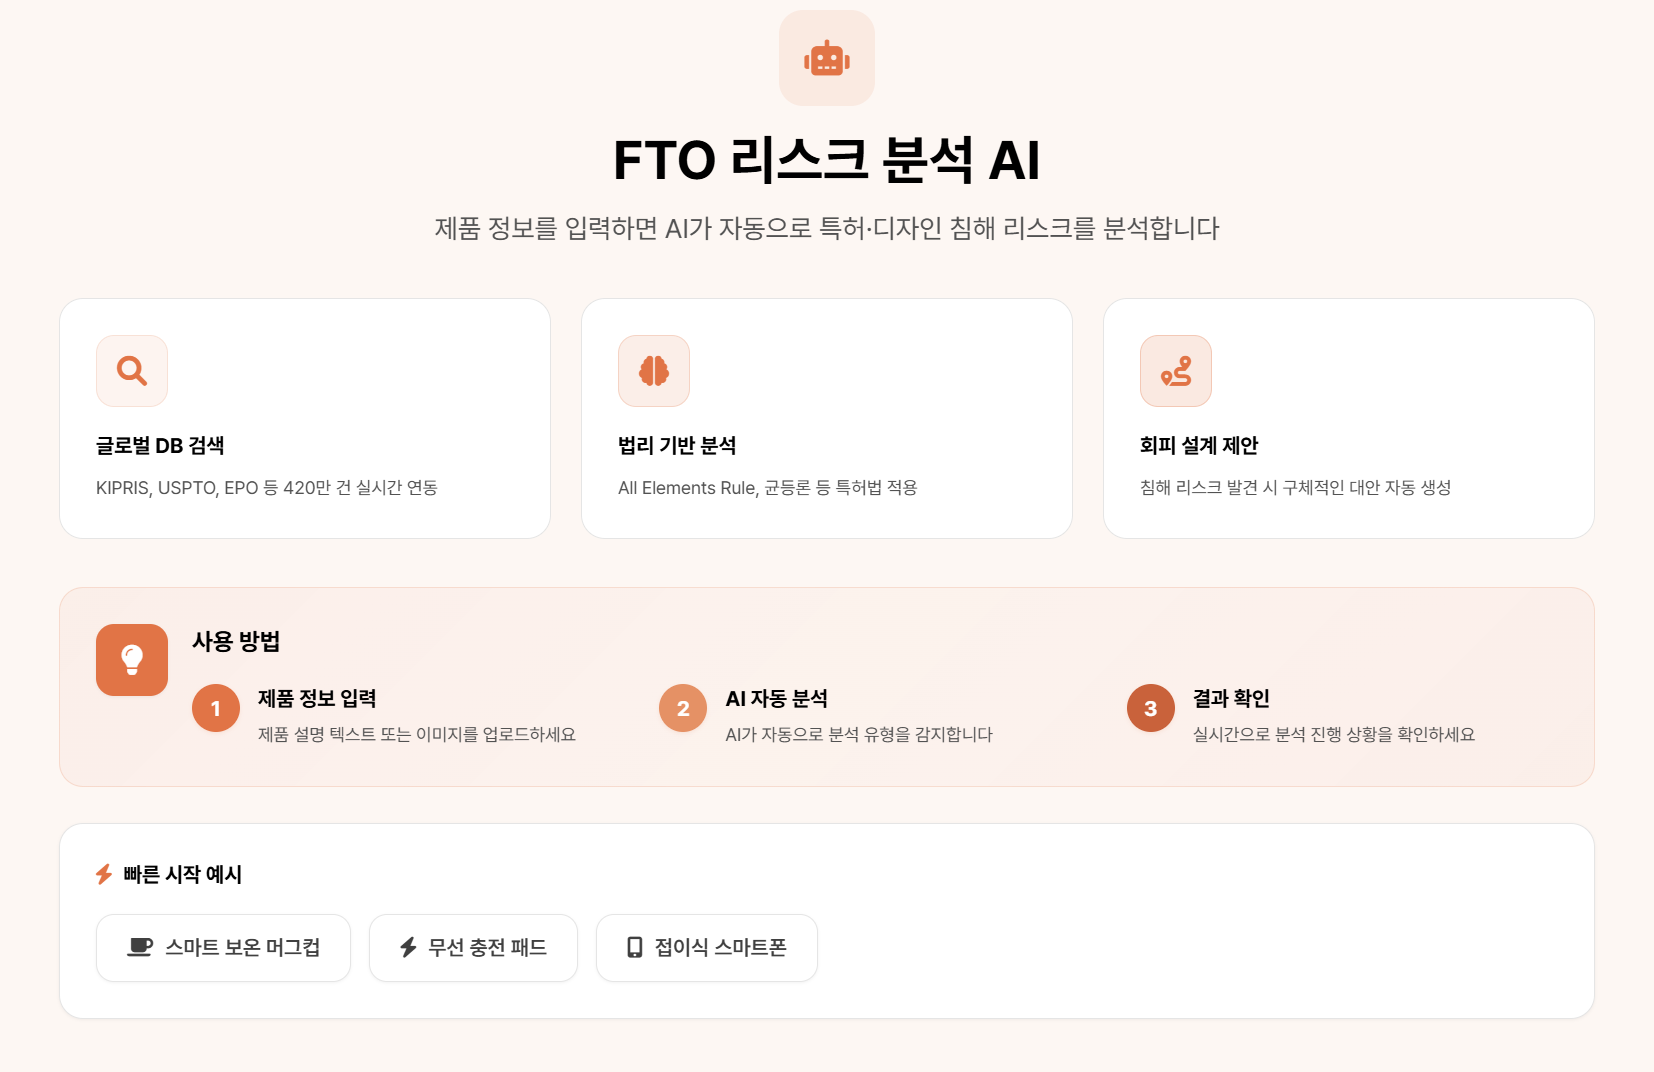
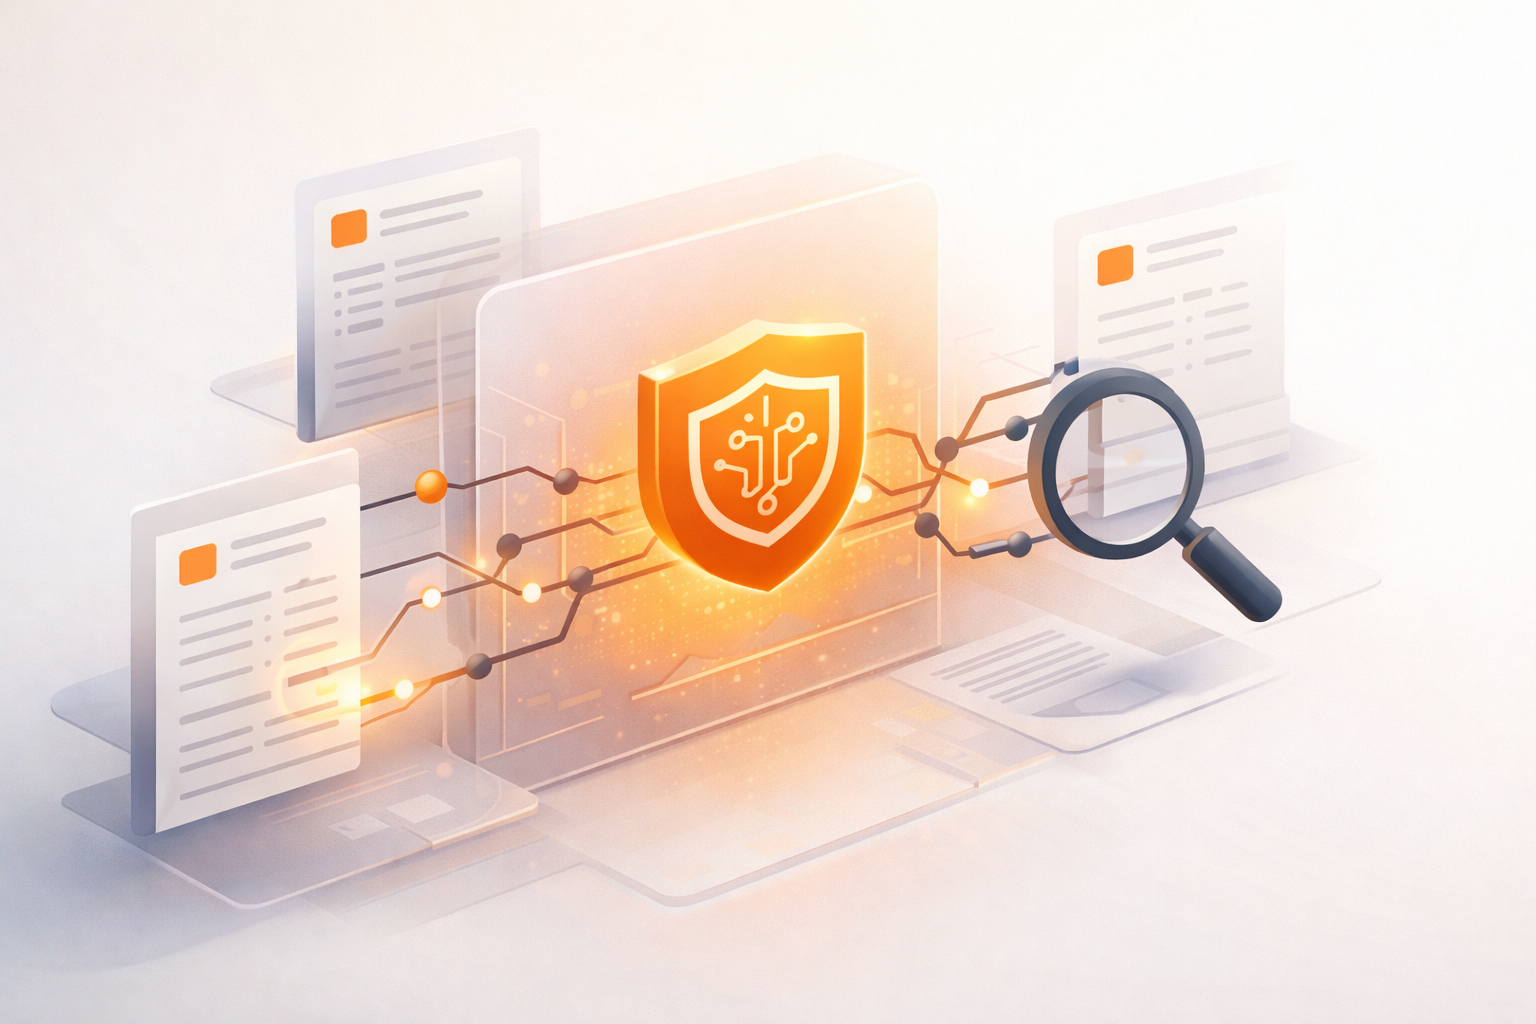
feat(front): PDF 다운로드 기능 추가 및 인쇄 스타일 개선

diff --git a/FRONTEND/results.html b/FRONTEND/results.html
@@ -8,7 +8,9 @@
     <script src="https://cdn.tailwindcss.com"></script>
     <link rel="stylesheet" href="https://cdnjs.cloudflare.com/ajax/libs/font-awesome/6.0.0/css/all.min.css">
     <link rel="stylesheet" href="toast.css">
-    
+    <script src="https://cdnjs.cloudflare.com/ajax/libs/html2canvas/1.4.1/html2canvas.min.js"></script>
+    <script src="https://cdnjs.cloudflare.com/ajax/libs/jspdf/2.5.1/jspdf.umd.min.js"></script>
+
     <style>
         @import url('https://cdn.jsdelivr.net/gh/orioncactus/pretendard@v1.3.9/dist/web/static/pretendard.min.css');
         
@@ -243,6 +245,74 @@
         .reveal:nth-child(6) { animation-delay: 0.5s; }
 
         .break-keep { word-break: keep-all; }
+
+        /* ── Print / PDF ── */
+        @media print {
+            @page {
+                size: A4 portrait;
+                margin: 6mm 8mm;
+            }
+
+            body {
+                background: white !important;
+                -webkit-print-color-adjust: exact;
+                print-color-adjust: exact;
+            }
+
+            /* 헤더·푸터·로딩·버튼 숨김 */
+            #app-header,
+            #app-footer,
+            #loadingOverlay,
+            .no-print {
+                display: none !important;
+            }
+
+            /* 결과 영역 표시 */
+            #resultsMain {
+                display: block !important;
+                padding: 0 !important;
+            }
+
+            /* 애니메이션 제거 */
+            .reveal {
+                opacity: 1 !important;
+                transform: none !important;
+                animation: none !important;
+            }
+
+            /* 전체 보고서 축소 → A4 1장 맞춤 */
+            #report-content {
+                zoom: 0.68;
+                max-width: none !important;
+                padding: 0 !important;
+            }
+
+            /* 카드 패딩 축소 */
+            .section-card {
+                padding: 14px !important;
+                margin-bottom: 6px !important;
+                box-shadow: none !important;
+                border-radius: 10px !important;
+            }
+            .verdict-banner {
+                padding: 14px 18px !important;
+                margin-bottom: 8px !important;
+            }
+            .stat-card {
+                padding: 10px !important;
+            }
+            .section-sub {
+                margin-bottom: 8px !important;
+            }
+
+            /* 페이지 나눔 방지 */
+            .section-card,
+            .verdict-banner,
+            .patent-row {
+                page-break-inside: avoid;
+                break-inside: avoid;
+            }
+        }
     </style>
 </head>
 
@@ -293,10 +363,10 @@
          RESULTS MAIN
     ══════════════════════════════════════ -->
     <main id="resultsMain" class="pt-24 pb-24" style="display:none;">
-        <div class="max-w-5xl mx-auto px-6">
+        <div class="max-w-5xl mx-auto px-6" id="report-content">
 
             <!-- Breadcrumb -->
-            <div class="flex items-center gap-2 text-sm text-neutral-500 mb-8 reveal">
+            <div class="flex items-center gap-2 text-sm text-neutral-500 mb-8 reveal no-print">
                 <a href="index.html" class="hover:text-primary transition-colors">홈</a>
                 <span class="text-neutral-300">/</span>
                 <a href="analysis.html" class="hover:text-primary transition-colors">분석 입력</a>
@@ -412,7 +482,7 @@
             </div>
 
             <!-- ── 7. Action Buttons ── -->
-            <div class="flex flex-wrap gap-3 justify-center mt-8 reveal">
+            <div class="flex flex-wrap gap-3 justify-center mt-8 reveal no-print">
                 <button
                     onclick="window.location.href='graph-rag.html'"
                     class="px-6 py-3 bg-white hover:bg-neutral-50 border border-neutral-200 hover:border-primary rounded-xl text-neutral-700 hover:text-primary font-semibold transition-all shadow-sm hover:shadow-md inline-flex items-center gap-2 text-sm"
@@ -623,12 +693,53 @@
         `).join('');
     }
 
-    function downloadPDF() {
-        if (typeof Toast !== 'undefined') {
-            Toast.info('PDF 생성 중...');
-            setTimeout(() => Toast.success('PDF 다운로드 완료!'), 1500);
-        } else {
-            alert('PDF 다운로드 기능은 실제 서비스에서 이용 가능합니다.');
+    async function downloadPDF() {
+        if (typeof Toast !== 'undefined') Toast.info('PDF 생성 중...');
+
+        // 캡처 전 no-print 요소 숨김
+        const noPrintEls = document.querySelectorAll('.no-print');
+        noPrintEls.forEach(el => { el._prevDisplay = el.style.display; el.style.display = 'none'; });
+
+        const content = document.getElementById('report-content');
+
+        try {
+            const canvas = await html2canvas(content, {
+                scale: 2,
+                useCORS: true,
+                logging: false,
+                backgroundColor: '#fafafa',
+            });
+
+            const imgData = canvas.toDataURL('image/jpeg', 0.95);
+            const { jsPDF } = window.jspdf;
+            const pdf = new jsPDF({ orientation: 'portrait', unit: 'mm', format: 'a4' });
+
+            const pageW = pdf.internal.pageSize.getWidth();   // 210mm
+            const pageH = pdf.internal.pageSize.getHeight();  // 297mm
+            const margin = 8;
+            const availW = pageW - margin * 2;
+            const availH = pageH - margin * 2;
+
+            const naturalH = (canvas.height / canvas.width) * availW;
+
+            let x = margin, y = margin, w = availW, h = naturalH;
+            if (naturalH > availH) {
+                // 콘텐츠가 1장을 초과할 경우 → 비율 유지하며 1장에 맞춤
+                const fitScale = availH / naturalH;
+                w = availW * fitScale;
+                h = availH;
+                x = margin + (availW - w) / 2;
+            }
+
+            pdf.addImage(imgData, 'JPEG', x, y, w, h);
+            pdf.save('FTO_분석결과.pdf');
+            if (typeof Toast !== 'undefined') Toast.success('PDF 다운로드 완료!');
+        } catch (err) {
+            console.error(err);
+            if (typeof Toast !== 'undefined') Toast.error('PDF 생성에 실패했습니다.');
+        } finally {
+            // no-print 요소 복원
+            noPrintEls.forEach(el => { el.style.display = el._prevDisplay || ''; delete el._prevDisplay; });
         }
     }
 
